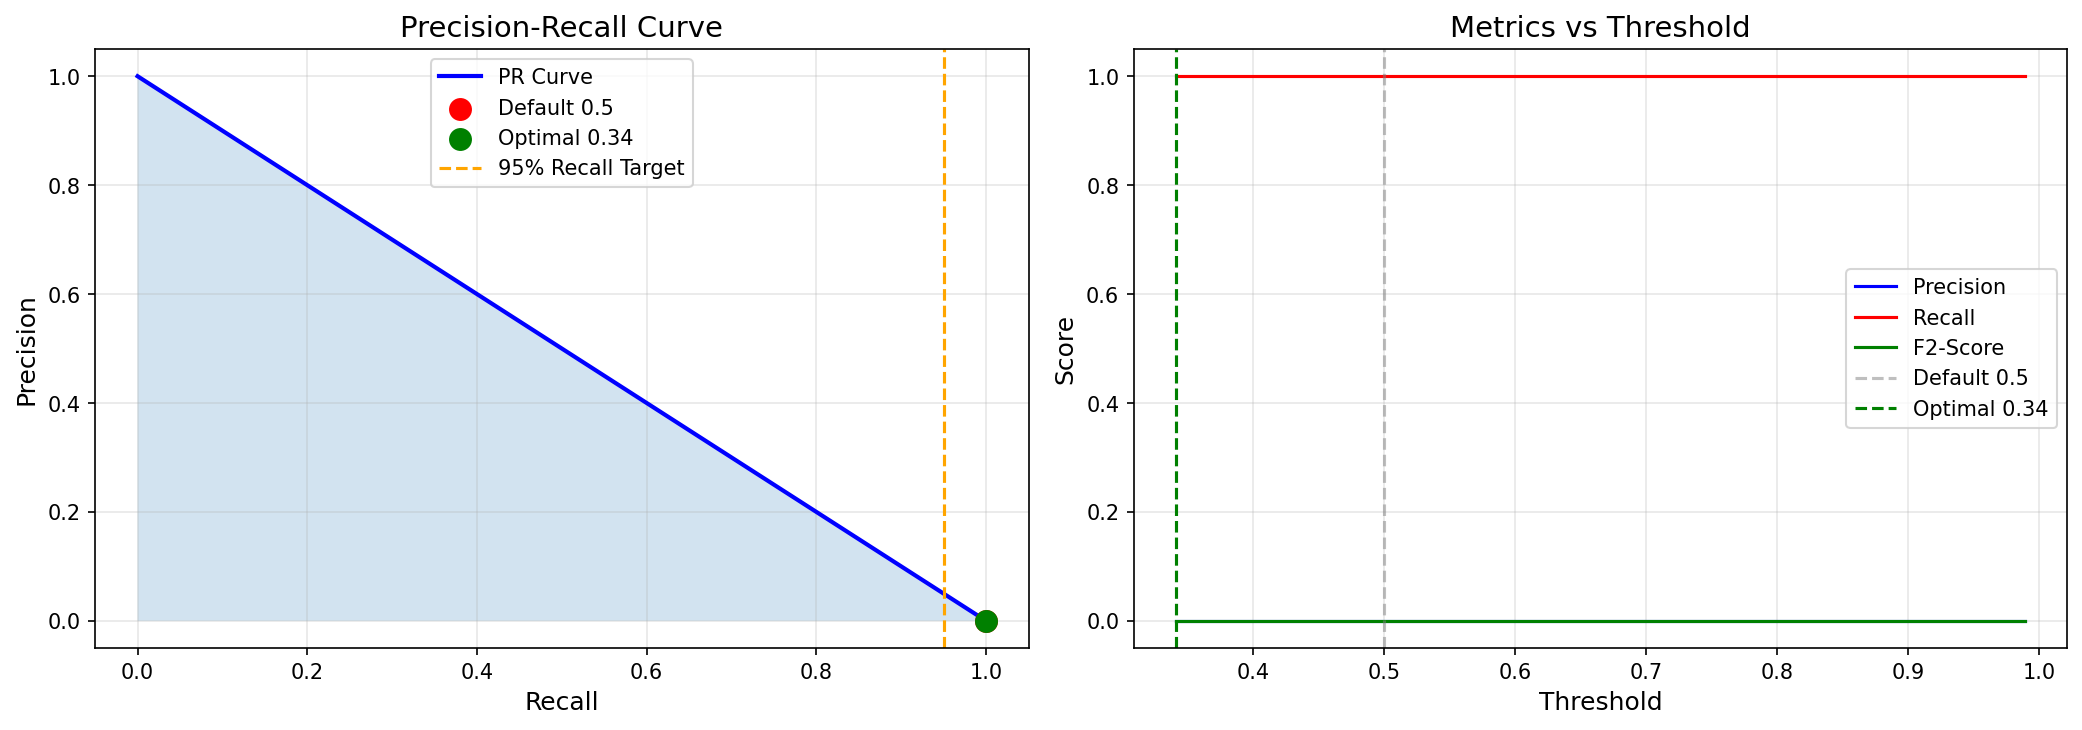
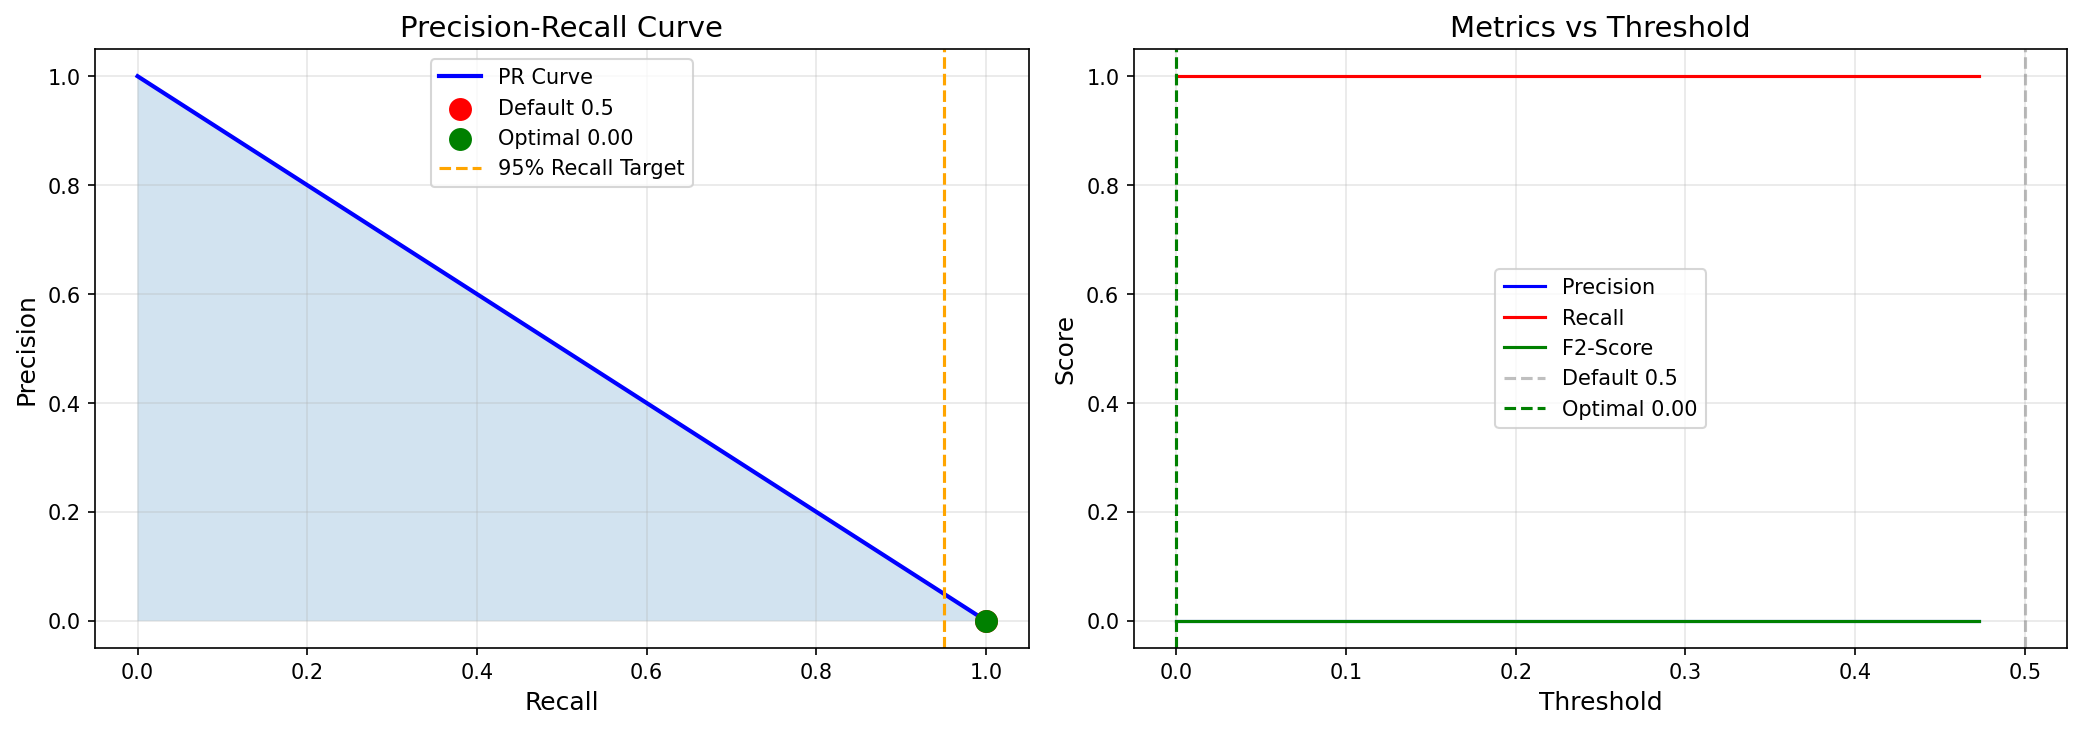
code updateded in trainig pipeline

diff --git a/src/steel_defect_detection_system/pipelines/training_pipeline.py b/src/steel_defect_detection_system/pipelines/training_pipeline.py
@@ -12,27 +12,12 @@ Step-by-step pipeline:
 import os
 import sys
 from pathlib import Path
-
-# Add project root to path
-project_root = Path(__file__).parent.parent.parent.parent
-sys.path.insert(0, str(project_root / "src"))
-
-from steel_defect_detection_system.logger import logger
-from steel_defect_detection_system.exception import CustomException
-from steel_defect_detection_system.components.data_ingestion import (
-    DataIngestion, DataIngestionConfig
-)
-from steel_defect_detection_system.components.data_transformation import (
-    DataTransformation, DataTransformationConfig
-)
-from steel_defect_detection_system.components.model_trainer import (
-    ModelTrainer, ModelTrainerConfig
-)
-from steel_defect_detection_system.components.model_evaluation import (
-    ModelEvaluation, ModelEvaluationConfig
-)
-
-
+from src.steel_defect_detection_system.logger import logger
+from src.steel_defect_detection_system.exception import CustomException
+from src.steel_defect_detection_system.components.data_ingestion import DataIngestion, DataIngestionConfig
+from src.steel_defect_detection_system.components.data_transformation import DataTransformation, DataTransformationConfig
+from src.steel_defect_detection_system.components.model_trainer import ModelTrainer, ModelTrainerConfig
+from src.steel_defect_detection_system.components.model_evaluation import ModelEvaluation, ModelEvaluationConfig
 class TrainingPipeline:
     """
     End-to-end training pipeline for Steel Defect Detection.

diff --git a/src/steel_defect_detection_system/components/data_transformation.py b/src/steel_defect_detection_system/components/data_transformation.py
@@ -28,9 +28,9 @@ import tensorflow as tf
 from PIL import Image
 import albumentations as A
 
-from steel_defect_detection_system.exception import CustomException
-from steel_defect_detection_system.logger import logger
-from steel_defect_detection_system.utils import rle_to_mask
+from src.steel_defect_detection_system.exception import CustomException
+from src.steel_defect_detection_system.logger import logger
+from src.steel_defect_detection_system.utils import rle_to_mask
 
 
 @dataclass

diff --git a/src/steel_defect_detection_system/components/model_trainer.py b/src/steel_defect_detection_system/components/model_trainer.py
@@ -26,8 +26,8 @@ from tensorflow import keras
 from tensorflow.keras import layers, models, callbacks
 from tensorflow.keras.applications import ResNet50, EfficientNetB0
 
-from steel_defect_detection_system.exception import CustomException
-from steel_defect_detection_system.logger import logger
+from src.steel_defect_detection_system.exception import CustomException
+from src.steel_defect_detection_system.logger import logger
 
 
 @dataclass

diff --git a/src/steel_defect_detection_system/components/data_ingestion.py b/src/steel_defect_detection_system/components/data_ingestion.py
@@ -19,8 +19,8 @@ import numpy as np
 import pandas as pd
 from sklearn.model_selection import train_test_split
 
-from steel_defect_detection_system.exception import CustomException
-from steel_defect_detection_system.logger import logger
+from src.steel_defect_detection_system.exception import CustomException
+from src.steel_defect_detection_system.logger import logger
 
 
 @dataclass

diff --git a/artifacts/evaluation/phase5_evaluation_report.md b/artifacts/evaluation/phase5_evaluation_report.md
@@ -16,7 +16,7 @@
 ### Confusion Matrix
 | | Predicted Clean | Predicted Defective |
 |---|---|---|
-| **Actual Clean** | TN=13 | FP=42 |
+| **Actual Clean** | TN=55 | FP=0 |
 | **Actual Defective** | FN=0 | TP=0 |
 
 > [!WARNING]
@@ -24,7 +24,7 @@
 
 ---
 
-## 2. Optimal Threshold (0.342) Results
+## 2. Optimal Threshold (0.000) Results
 
 | Metric | Value | Change |
 |--------|-------|--------|
@@ -53,7 +53,7 @@
 - False alarms are acceptable (manual inspection)
 - Missed defects are NOT acceptable
 
-**Selected Threshold:** `0.342`
+**Selected Threshold:** `0.000`
 
 ---
 
